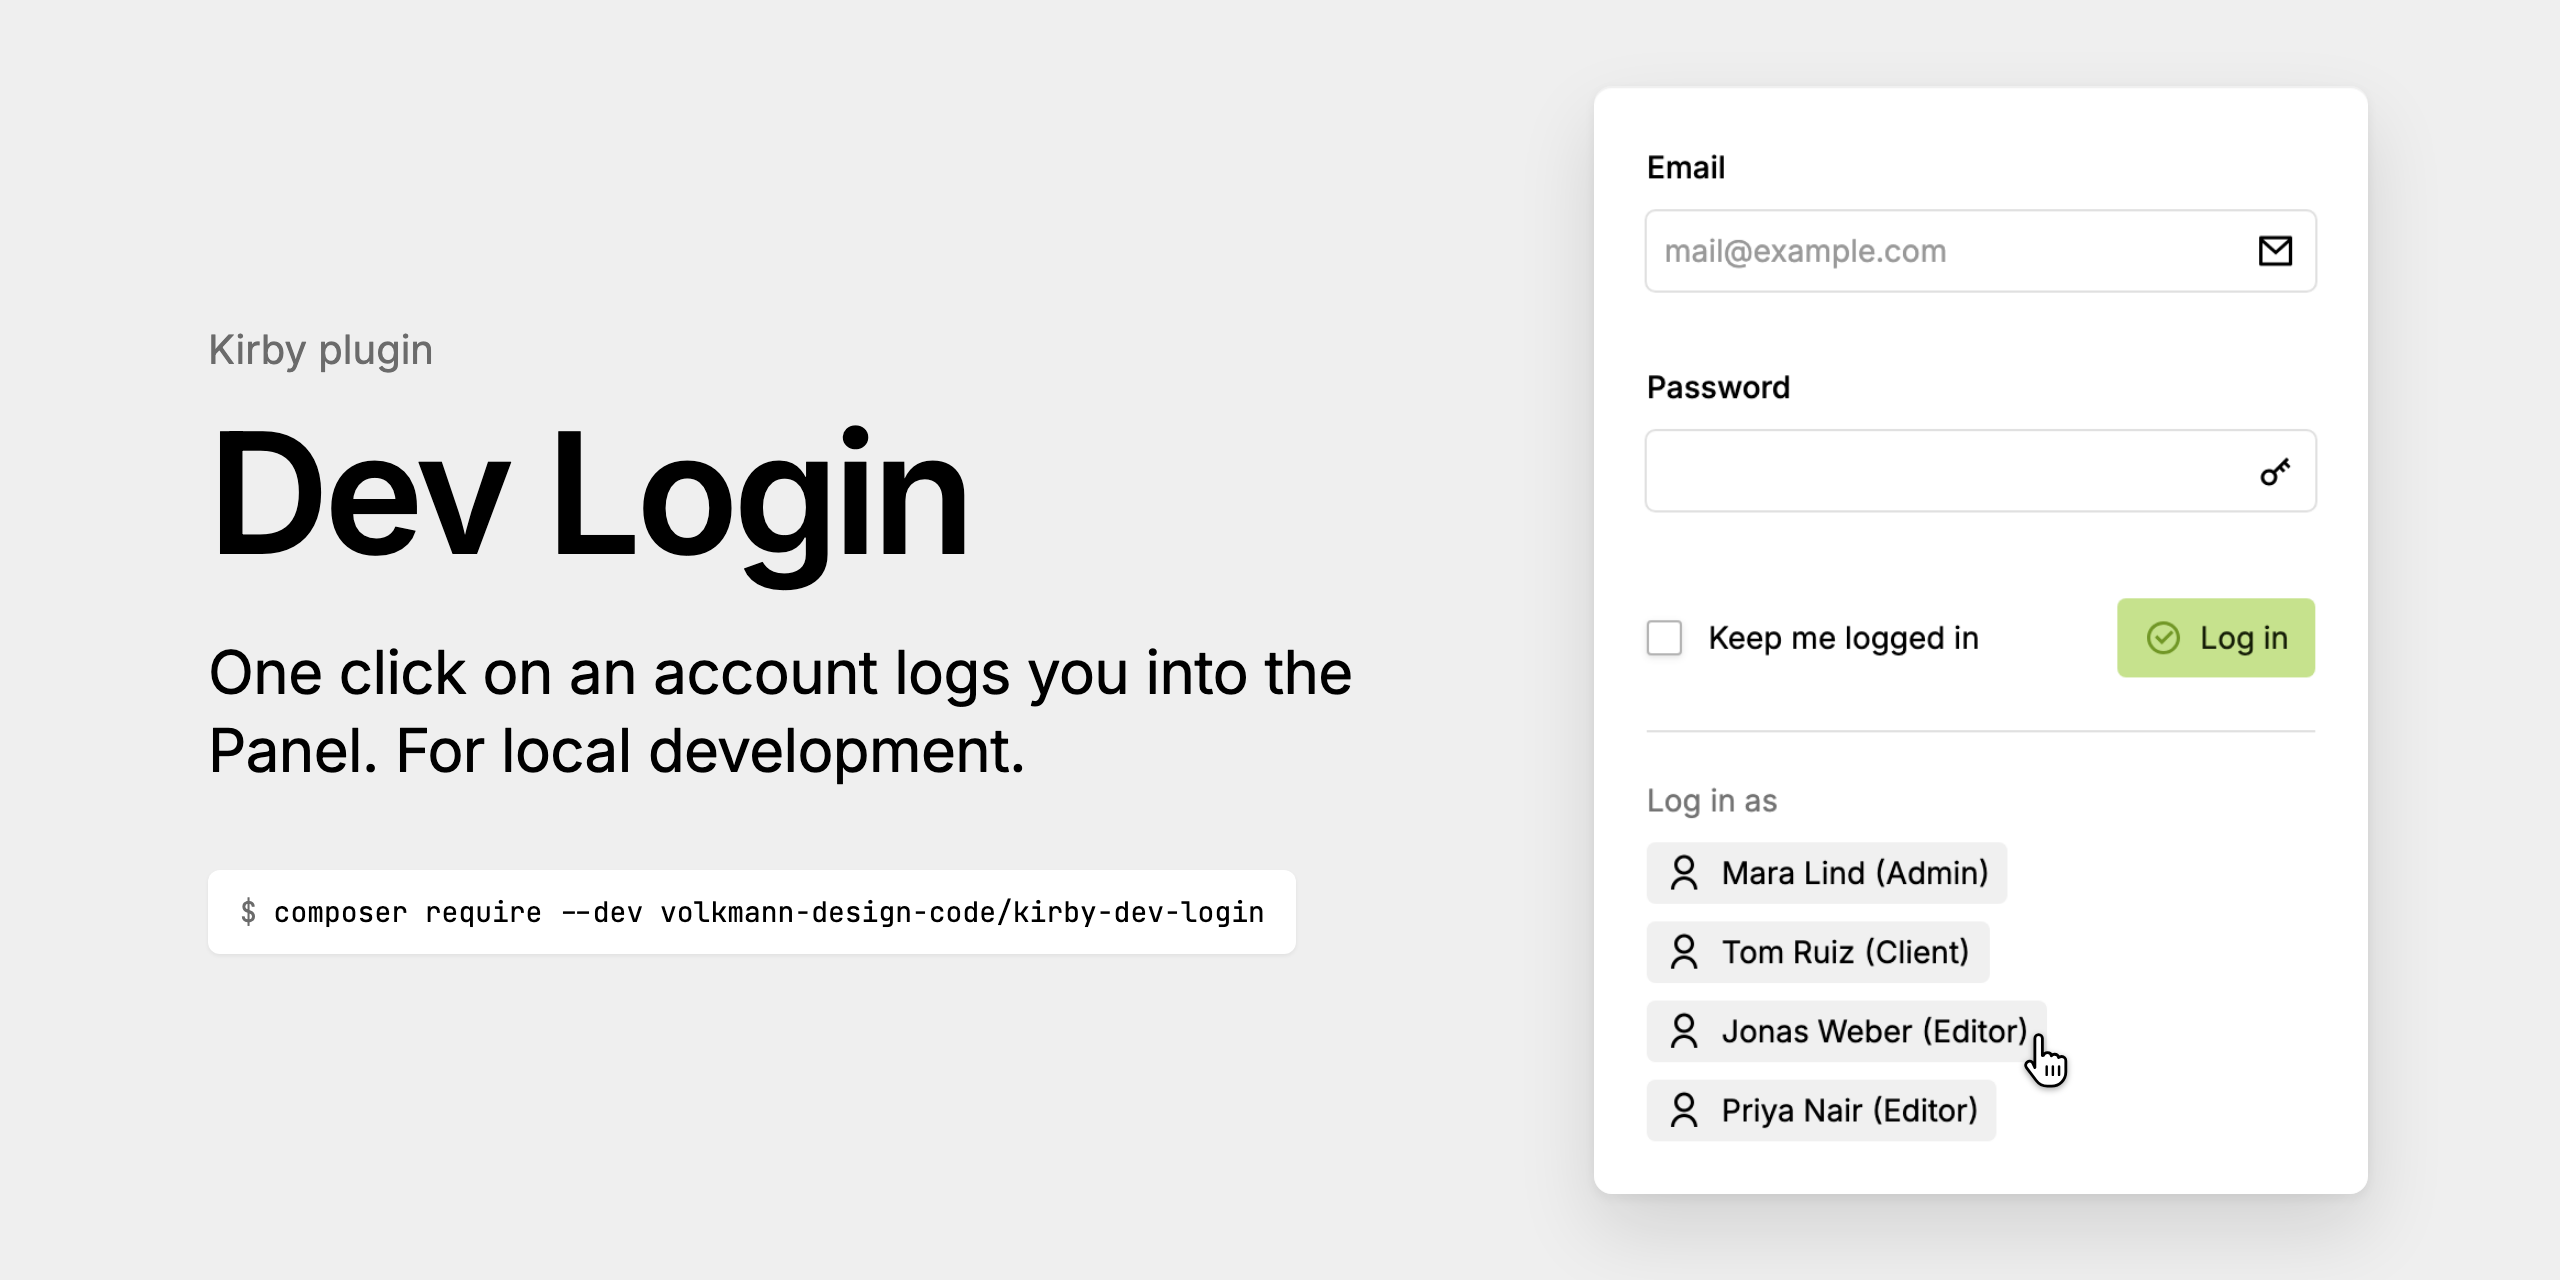
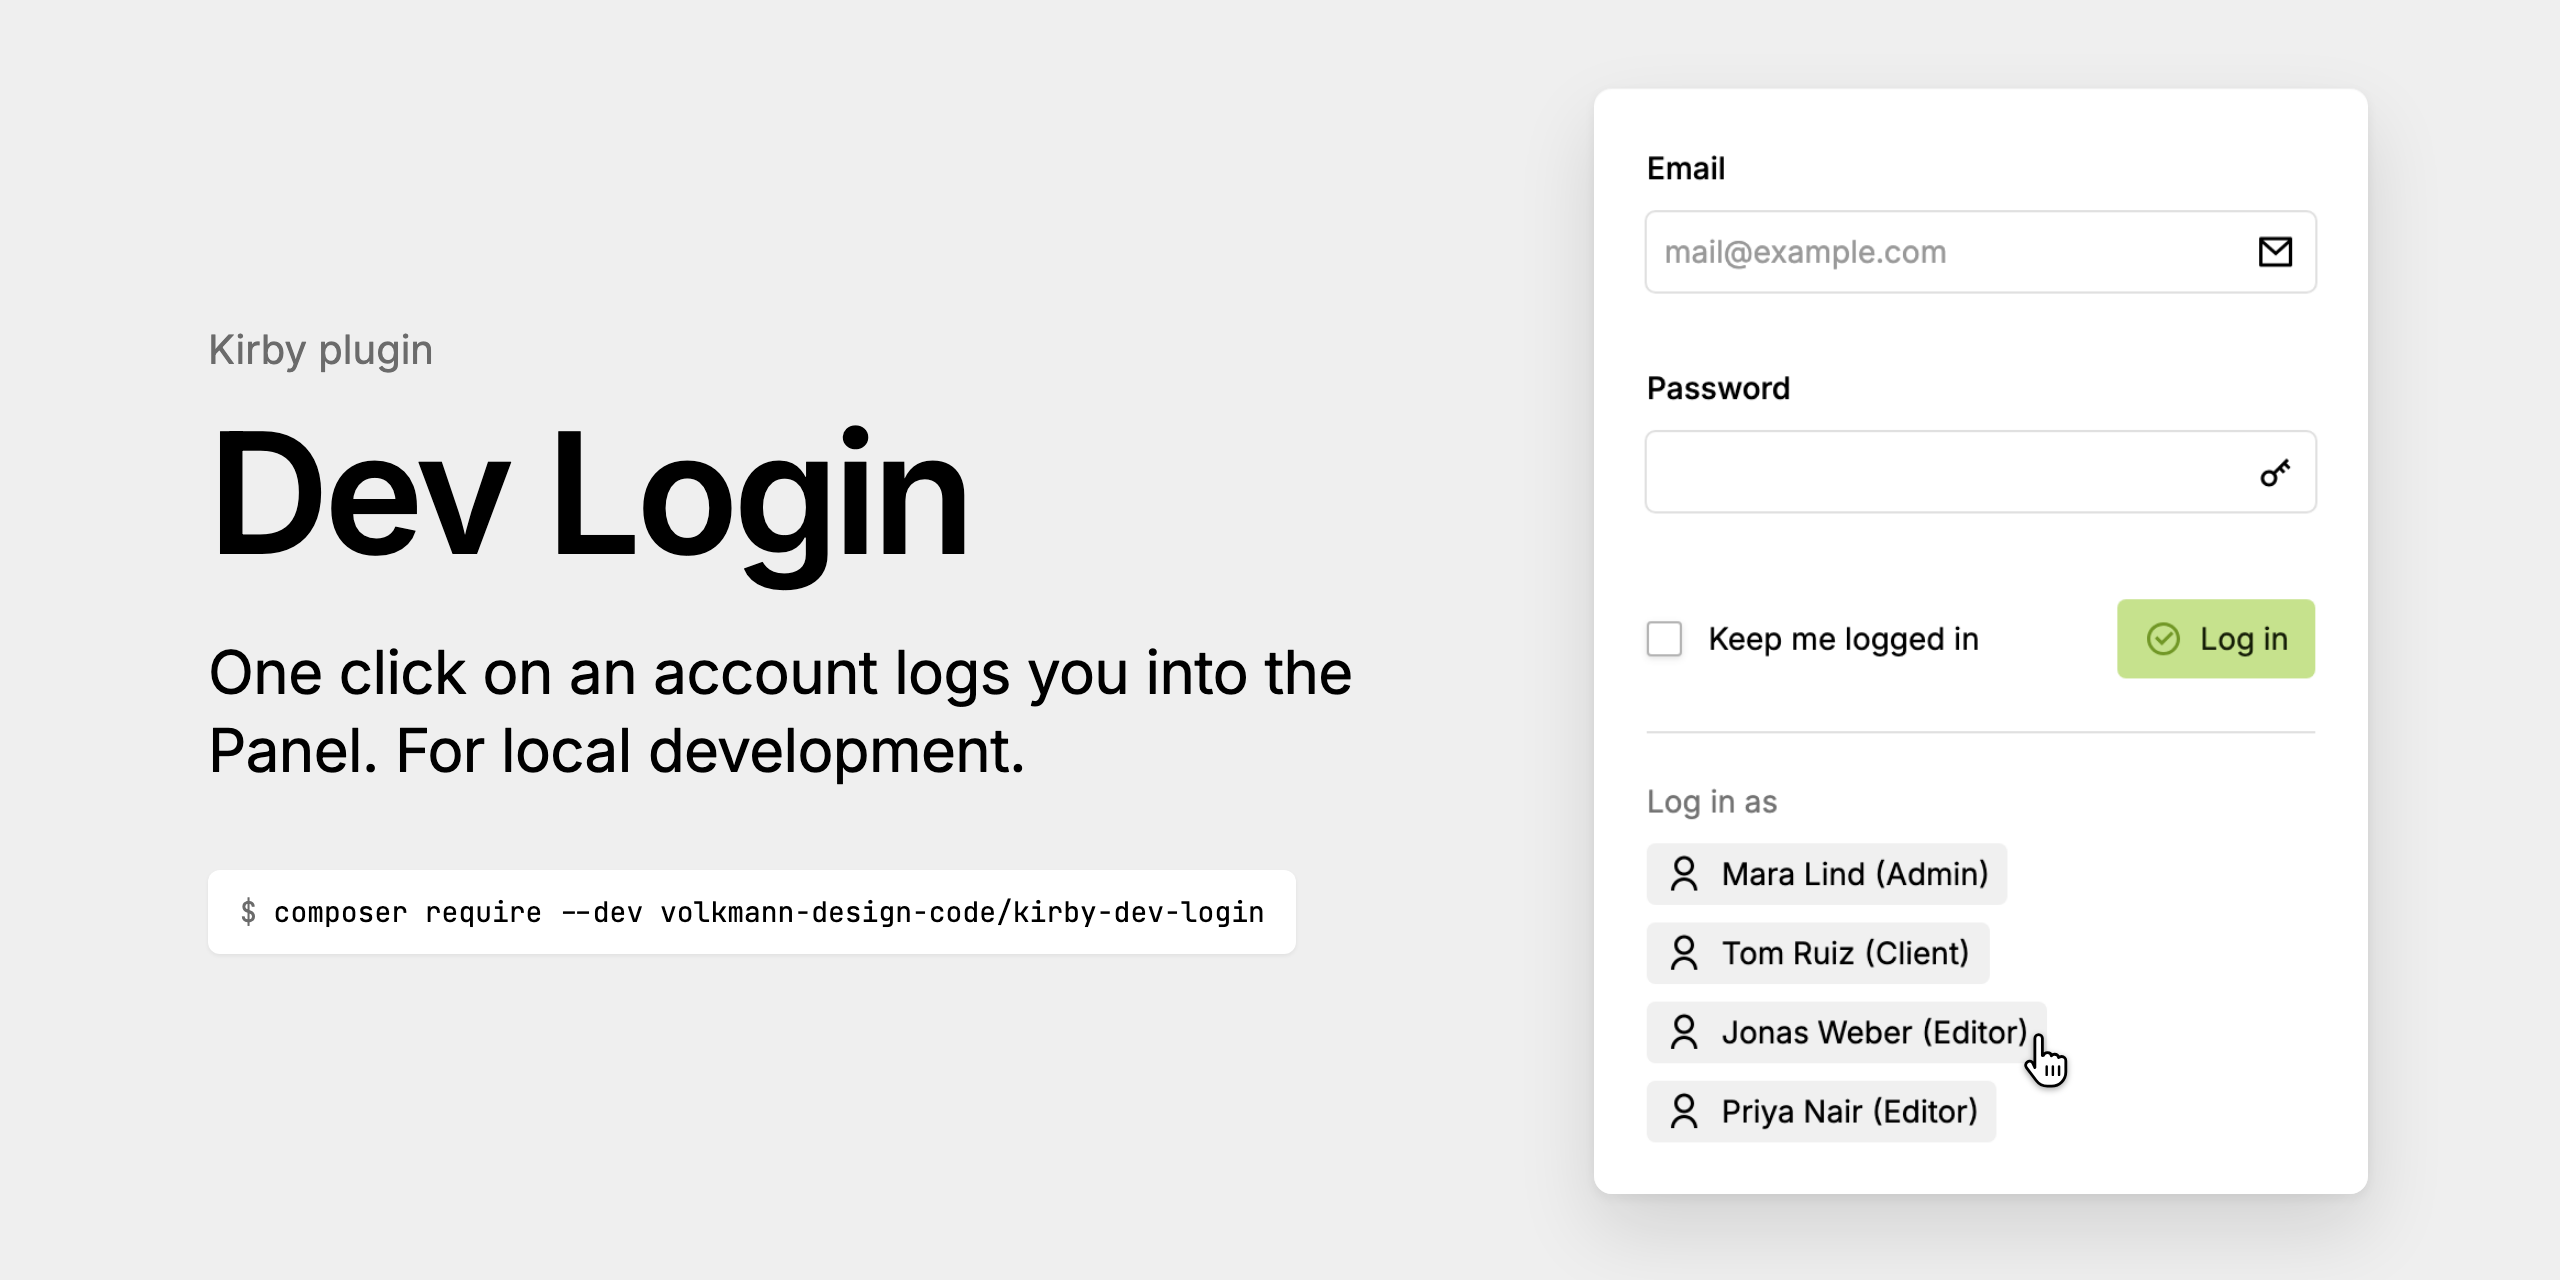
docs: square cover image, rendered with the 2:1 one
.github/cover-square.png (640 × 640 at 2x) shows the lower part of the
login: the accounts, with the form above them fading out. `npm run cover`
renders both images from one Panel session.

diff --git a/.github/cover/square.html b/.github/cover/square.html
@@ -1,0 +1,83 @@
+<!doctype html>
+<html lang="en">
+<head>
+<meta charset="utf-8">
+<title>Kirby Dev Login square cover</title>
+<style>
+	/* cover.mjs puts the fonts' @font-face rules here */
+	/*{{fonts}}*/
+
+	/* as cover.html: the Panel's gray and card, Inter for its system font */
+	:root {
+		--back: #efefef;
+		--text: #000;
+		--dimmed: #6b6b6b;
+		--font: "Inter Variable", sans-serif;
+	}
+	* { box-sizing: border-box; margin: 0; }
+	html, body { width: 640px; height: 640px; overflow: hidden; }
+	body {
+		background: var(--back);
+		color: var(--text);
+		font-family: var(--font);
+		display: grid;
+		place-content: center;
+	}
+	.eyebrow {
+		font-size: 20px;
+		color: var(--dimmed);
+		margin-bottom: 12px;
+	}
+	/* above the fade */
+	.eyebrow, h1 {
+		position: relative;
+		z-index: 3;
+	}
+	h1 {
+		font-size: 76px;
+		font-weight: 600;
+		letter-spacing: -0.03em;
+		line-height: 1;
+		margin-bottom: 16px;
+	}
+	.shot {
+		position: relative;
+	}
+	.shot img {
+		display: block;
+		width: 387px; /* the 352 px dialog × 1.1 */
+		border-radius: 9px;
+		box-shadow: 0 2px 6px rgba(0, 0, 0, 0.06), 0 18px 40px rgba(0, 0, 0, 0.12);
+	}
+	/* the form above the accounts fades into the background */
+	.shot::before {
+		content: "";
+		position: absolute;
+		/* from above the card, so its top edge and shadow fade too */
+		inset: -40px -48px auto;
+		height: calc(55% + 40px);
+		background: linear-gradient(var(--back) 40px, transparent);
+		z-index: 1;
+	}
+	.pointer {
+		position: absolute;
+		width: 30px;
+		z-index: 2;
+		/* cover.mjs sets left and top, as in cover.html */
+		filter: drop-shadow(0 1px 1.5px rgba(0, 0, 0, 0.35));
+	}
+</style>
+</head>
+<body>
+	<p class="eyebrow">Kirby plugin</p>
+	<h1>Dev Login</h1>
+	<div class="shot">
+		<!-- the lower part of the real dialog -->
+		<img src="{{dialog}}" alt="">
+		<svg class="pointer" style="{{pointer}}" viewBox="0 0 32 32" xmlns="http://www.w3.org/2000/svg">
+			<path d="M11 3.5c1.1 0 2 .9 2 2v9.2l.6-.1c.3-.9 1.1-1.5 2.1-1.5 1.1 0 2 .7 2.1 1.7.4-.5 1-.8 1.7-.8 1.1 0 2 .8 2.2 1.8.4-.4 1-.6 1.6-.6 1.2 0 2.2 1 2.2 2.2v6.1c0 4.1-3.3 7.5-7.5 7.5h-2.3c-2.4 0-4.6-1.1-6-3l-5.2-6.9c-.7-.9-.5-2.2.4-2.9.9-.7 2.1-.6 2.8.2L9 21.1V5.5c0-1.1.9-2 2-2z" fill="#fff" stroke="#000" stroke-width="1.5" stroke-linejoin="round"/>
+			<path d="M15.3 20.5v4.5M18.6 20.5v4.5M21.9 20.5v4.5" stroke="#000" stroke-width="1.3" stroke-linecap="round"/>
+		</svg>
+	</div>
+</body>
+</html>

diff --git a/README.md b/README.md
@@ -123,8 +123,9 @@ composer install    # Kirby into kirby/, PHPUnit
 composer test
 ```
 
-The cover image `.github/cover.png` is rendered from a real Panel with
-made-up accounts, the same on every run (pinned Chromium and fonts):
+The cover images `.github/cover.png` (2:1) and `.github/cover-square.png`
+(1:1) are rendered from a real Panel with made-up accounts, the same on
+every run (pinned Chromium and fonts):
 
 ```sh
 cd .github/cover
